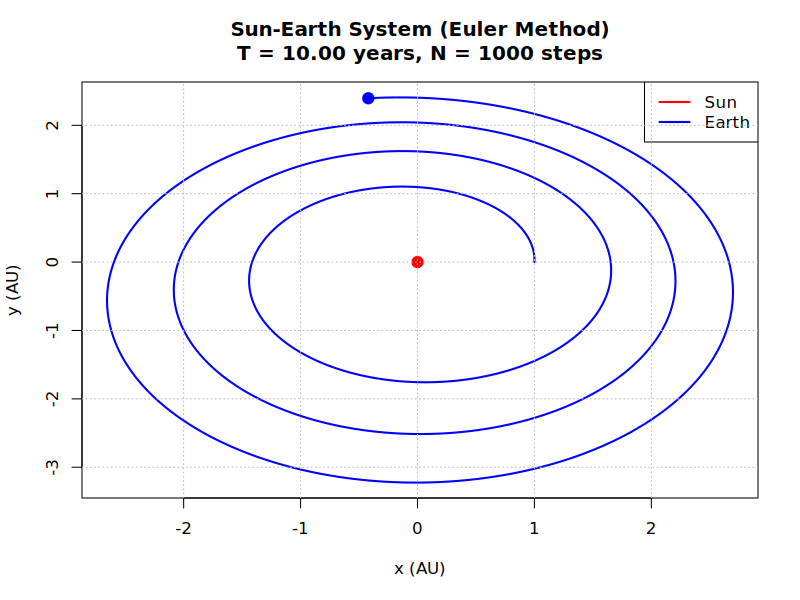
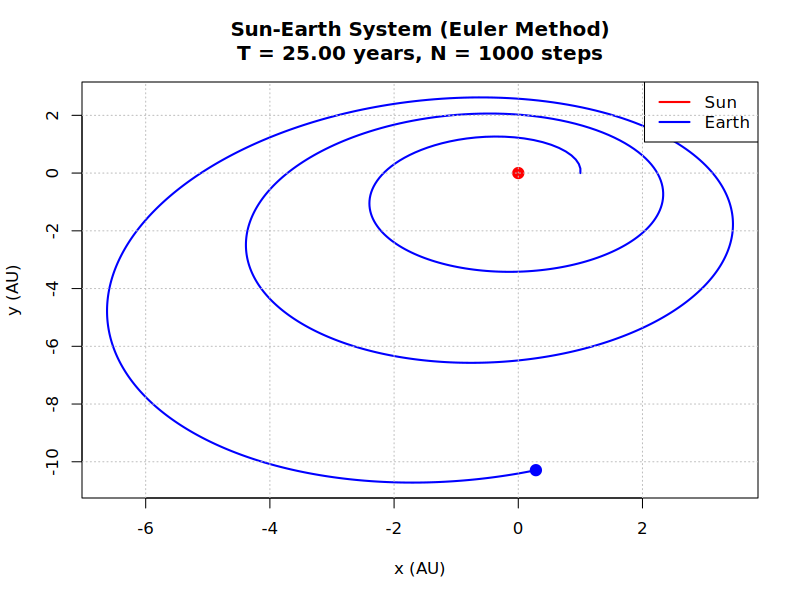
need to finish results

diff --git a/RESULTS.md b/RESULTS.md
@@ -1,34 +1,80 @@
 # Results
 
-## Earth-Moon System
+## Sun-Earth System
 
-Our Earth and moon example files in ```examples/two_body_examples``` each plot the orbit of the moon (grey line) around the Earth (blue) over $10$ lunar months ($\approx 29.5$ days), using a different iteration method.
-We set a high number of time-steps to maximise accuracy.
+Our Sun and Earth example files in ```examples/two_body_examples``` each plot the orbit of the Earth (blue line) around the Sun (red) over $25$ years, using a different iteration method.
+We use a high number of steps $N=1000$ to maximise technique accuracy.
 
 ### Euler Method
 
-The Euler Method only illustrates $\approx 3.25$ full orbits instead of $10$.
-The moon also spirals out immediately.
+The Euler Method does not illustrate the full $25$ periods.
+The Earth also spirals out immediately and not a lot of total energy is conserved.
 Therefore, the Euler method is not an accurate technique, so methods with a higher-order or greater resolution are required to trace-out celestial dynamics better.
 
-![Euler Method, Earth and Moon system](images/earth_moon_euler.png)
+Output:
+```
+Two-Body System Simulation Euler Method Results:
+Body a mass: 1.99e+30 kg
+Body b mass: 5.97e+24 kg
+Total simulation time: 25.00 years
+Time steps: 1000
+Time step size: 9.13 days
+Initial separation: 1.000 AU
+Final separation: 10.296 AU
+Energy conservation ratio: 0.145946
+```
+![Euler Method, Earth and Moon system](images/sun_earth_euler.png)
 
 ### Midpoint Method
 
-$10$ periods are given
-
-![Midpoint Method, Earth and Moon system](images/earth_moon_midpoint.png)
+```
+Two-Body System Simulation Midpoint Method Results:
+Body a mass: 1.99e+30 kg
+Body b mass: 5.97e+24 kg
+Total simulation time: 25.00 years
+Time steps: 1000
+Time step size: 9.13 days
+Initial separation: 1.000 AU
+Final separation: 1.055 AU
+Energy conservation ratio: 0.942958
+```
+![Midpoint Method, Earth and Moon system](images/sun_earth_midpoint.png)
 
 ### Heun's Method
 
-![Heun's Method, Earth and Moon system](images/earth_moon_heuns.png)
+```
+Two-Body System Simulation Heun's Method Results:
+Body a mass: 1.99e+30 kg
+Body b mass: 5.97e+24 kg
+Total simulation time: 25.00 years
+Time steps: 1000
+Time step size: 9.13 days
+Initial separation: 1.000 AU
+Final separation: 1.219 AU
+Energy conservation ratio: 0.849014
+```
+![Heun's Method, Earth and Moon system](images/sun_earth_heuns.png)
 
 ### Runge-Kutta Method
 
-![Runge-Kutta Method, Earth and Moon system](images/earth_moon_runge_kutta.png)
+```
+Two-Body System Simulation Runge-Kutta Method Results:
+Body a mass: 1.99e+30 kg
+Body b mass: 5.97e+24 kg
+Total simulation time: 25.00 years
+Time steps: 1000
+Time step size: 9.13 days
+Initial separation: 1.000 AU
+Final separation: 1.000 AU
+Energy conservation ratio: 1.000422
+```
+![Runge-Kutta Method, Earth and Moon system](images/sun_earth_runge_kutta.png)
 
 ## Three Earths System
 
+```
+
+```
 ![Three Earths](images/three_earths.png)
 
 ---
